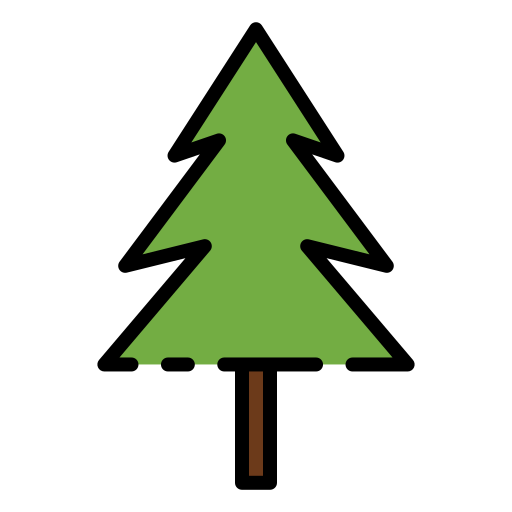
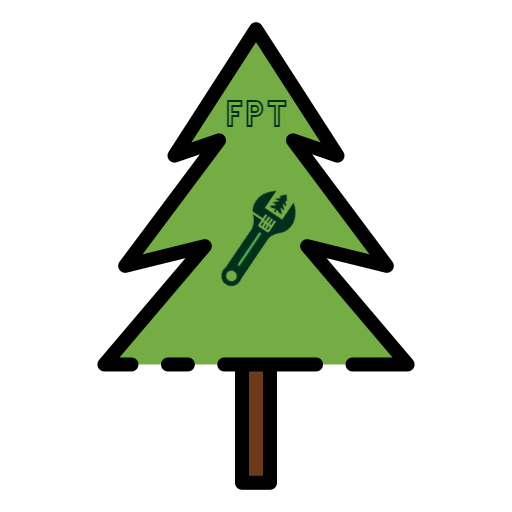
adição projeto qgis
qdição do plugin qgis e também troca do icone

Changed region(s): [[0.4062, 0.375, 0.5938, 0.5625], [0.4375, 0.1875, 0.5625, 0.25]]

diff --git a/index.html b/index.html
@@ -115,7 +115,7 @@
 
     <div class="divider-2"></div>
 
-    <!-- SERVICES -->
+    <!-- Projetos -->
     <section class="section" id="projects">
       <div class="container grid">
         <header>
@@ -128,10 +128,17 @@
         </header>
         <div class="cards grid">
           <div class="card">
+            <i class="fa-solid fa-map-location-dot"></i>
+            <h3 class="title">QGIS Plugin</h3>
+            <p>
+              Faça o planejamento de inventários florestais através do software QGIS com o plugin <a href="https://richterv.github.io/fptoolsdoc/plot_alocation_qgis.html" target="_blank" class="custom-link">Plot Alocation FPT</a>.
+            </p>
+          </div>
+          <div class="card">
             <i class="fa-brands fa-python"></i>
             <h3 class="title">Forest Py Tools</h3>
             <p>
-              Processe o gerenciamento florestal de ponta a ponta, de forma mais fácil possível.
+              Planeje e processe, em linguagem Python, o Manejo Florestal eficiênte de forma mais fácil e intuitíva.
               <a href="https://richterv.github.io/fptoolsdoc/index.html" target="_blank" class="custom-link">Acessar
                 documentação</a>.
             </p>
